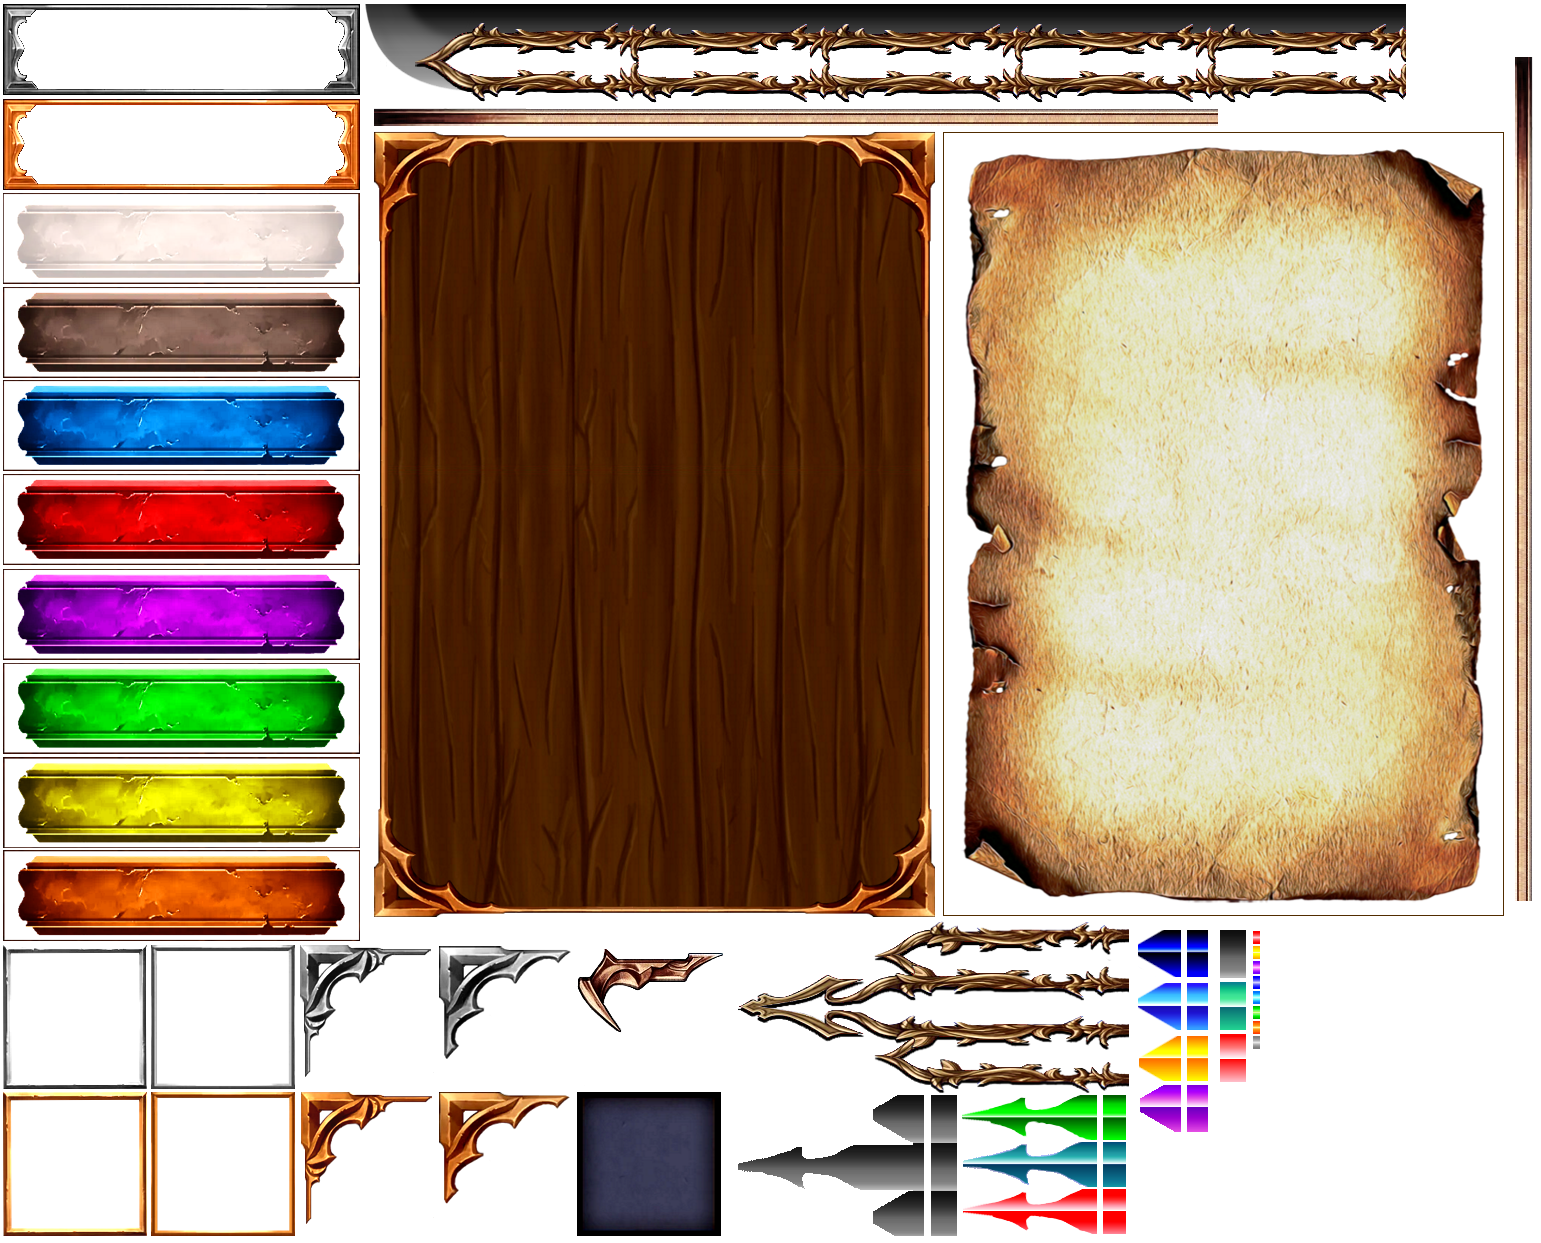
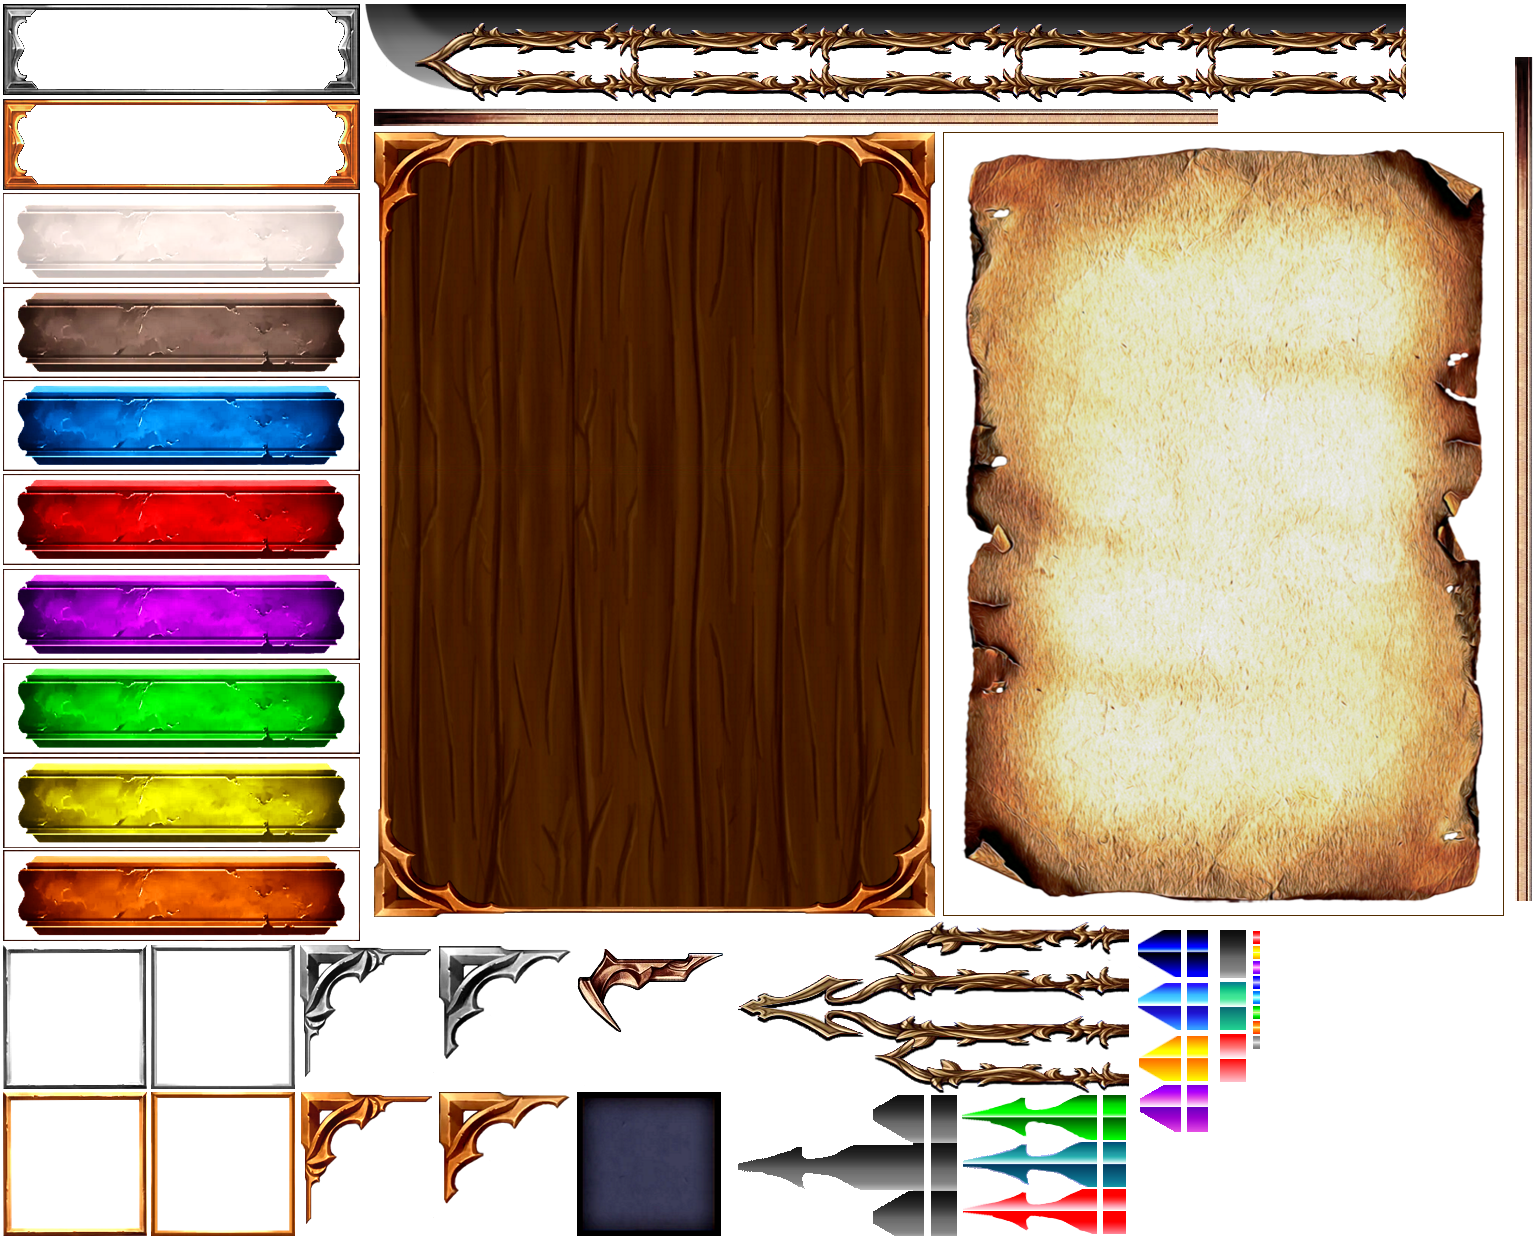
Retoutch style StatPlate

Changed region(s): [[0.0, 0.0, 0.9993, 1.0], [0.3748, 0.9814, 0.4684, 1.0], [0.0937, 0.7974, 0.1249, 0.8281]]

diff --git a/src/App.jsx b/src/App.jsx
@@ -1,33 +1,125 @@
 import "./App.css"
 import StatPlates from "./Components/_Various/StatPlates";
+import Plate from "./Components/_Various/Plate";
 
 import StyleVar from "./StyleVar";
 
 const App = () => {
+
+   const nameColor = {
+      // stat:  StyleVar.plate.violet,
+      stat:  StyleVar.plate.red,
+      score: StyleVar.plate.orange,
+      fame:  StyleVar.plate.violet,
+   }
+
+   const style = {
+      
+      // frameColor: StyleVar.frame.silver,
+      frameColor: StyleVar.frame.gold,
+      textColor:  StyleVar.text.white,
+      
+      name: {
+         trans:     "-38%, 71%",
+         scale:     "80%, 70%",
+         textScale: "110%, 110%",
+      },
+
+      value: {
+         color:     StyleVar.plate.grey,
+         trans:     "77%, -71%",
+         scale:     "55%, 70%",
+         textScale: "160%, 110%",
+      },
+   }
 
    return(<>
       <div className="Flex aze">
          <div className="Img pict woodPanel"/>
 
          <StatPlates
-            name  ="Health"
-            value ="3000"
-            nameColor  ={StyleVar.plate.red}
-            valueColor ={StyleVar.plate.grey}
+            name            ="Max Health"
+            namePlateColor  ={nameColor.stat}
+            namePlateTrans  ={style.name.trans}
+            namePlateScale  ={style.name.scale}
+            nameTextScale   ={style.name.textScale}
+
+            value           ={3000}
+            valuePlateColor ={style.value.color}
+            valuePlateTrans ={style.value.trans}
+            valuePlateScale ={style.value.scale}
+            valueTextScale  ={style.value.textScale}
+
+            frameColor ={style.frameColor}
+            textColor  ={style.textColor}
          />
 
          <StatPlates
-            name  ="Mana"
-            value ="2200"
-            nameColor  ={StyleVar.plate.red}
-            valueColor ={StyleVar.plate.grey}
+            name            ="Health Regen"
+            namePlateColor  ={nameColor.stat}
+            namePlateTrans  ={style.name.trans}
+            namePlateScale  ={style.name.scale}
+            nameTextScale   ={style.name.textScale}
+
+            value           ="50/s"
+            valuePlateColor ={style.value.color}
+            valuePlateTrans ={style.value.trans}
+            valuePlateScale ={style.value.scale}
+            valueTextScale  ={style.value.textScale}
+
+            frameColor ={style.frameColor}
+            textColor  ={style.textColor}
          />
 
          <StatPlates
-            name  ="Energy"
-            value ="3500"
-            nameColor  ={StyleVar.plate.red}
-            valueColor ={StyleVar.plate.grey}
+            name            ="Max Mana"
+            namePlateColor  ={nameColor.stat}
+            namePlateTrans  ={style.name.trans}
+            namePlateScale  ={style.name.scale}
+            nameTextScale   ={style.name.textScale}
+
+            value           ={2200}
+            valuePlateColor ={style.value.color}
+            valuePlateTrans ={style.value.trans}
+            valuePlateScale ={style.value.scale}
+            valueTextScale  ={style.value.textScale}
+
+            frameColor ={style.frameColor}
+            textColor  ={style.textColor}
+         />
+
+         <StatPlates
+            name            ="Mana Regen"
+            namePlateColor  ={nameColor.stat}
+            namePlateTrans  ={style.name.trans}
+            namePlateScale  ={style.name.scale}
+            nameTextScale   ={style.name.textScale}
+
+            value           ="70/s"
+            valuePlateColor ={style.value.color}
+            valuePlateTrans ={style.value.trans}
+            valuePlateScale ={style.value.scale}
+            valueTextScale  ={style.value.textScale}
+
+            frameColor ={style.frameColor}
+            textColor  ={style.textColor}
+         />
+
+         <StatPlates
+            name            ="Max Energy"
+            namePlateColor  ={nameColor.stat}
+            namePlateTrans  ={style.name.trans}
+            namePlateScale  ={style.name.scale}
+            nameTextScale   ={style.name.textScale}
+
+            value           ={3500}
+            valuePlateColor ={style.value.color}
+            valuePlateTrans ={style.value.trans}
+            valuePlateScale ={style.value.scale}
+            valueTextScale  ={style.value.textScale}
+
+            frameColor ={style.frameColor}
+            textColor  ={style.textColor}
          />
 
       </div>

diff --git a/src/Components/_Various/StatPlates/index.jsx b/src/Components/_Various/StatPlates/index.jsx
@@ -10,13 +10,12 @@ const Template = (props) => {
          {/* Name */}
          <Plate
             value       ={props.name}
-            plateWidth  ={"250px"}
-            frameScale  ={"70%, 60%"}
-            frameTopPos ={"-18px"}
-            frameColor  ={StyleVar.frame.silver}
-            plateColor  ={props.nameColor}
-            textSize    ={StyleVar.text.small}
-            textColor   ={StyleVar.text.white}
+            plateTrans  ={props.namePlateTrans}
+            plateScale  ={props.namePlateScale}
+            plateColor  ={props.namePlateColor}
+            textScale   ={props.nameTextScale}
+            textColor   ={props.textColor}
+            frameColor  ={props.frameColor}
             isClickable ={false}
          />
 
@@ -24,13 +23,12 @@ const Template = (props) => {
          {/* Value */}
          <Plate
             value       ={props.value}
-            plateWidth  ={"178px"}
-            frameScale  ={"50%, 60%"}
-            frameTopPos ={"-18px"}
-            frameColor  ={StyleVar.frame.silver}
-            plateColor  ={props.valueColor}
-            textSize    ={StyleVar.text.small}
-            textColor   ={StyleVar.text.white}
+            plateTrans  ={props.valuePlateTrans}
+            plateScale  ={props.valuePlateScale}
+            plateColor  ={props.valuePlateColor}
+            textScale   ={props.valueTextScale}
+            textColor   ={props.textColor}
+            frameColor  ={props.frameColor}
             isClickable ={false}
          />
       </div>

diff --git a/src/Components/_Various/Plate/index.jsx b/src/Components/_Various/Plate/index.jsx
@@ -1,29 +1,24 @@
 import "./style.css";
-import { useEffect, useRef } from "react";
 import PlateColor from "../PlateColor";
 
 const Template = (props) => {
 
-   const plateRef = useRef(null);
-   const frameRef = useRef(null);
-   const textRef  = useRef(null);
    const clickPlate = props.isClickable ? "clickPlate" : "";
+   const style = {
+      plate: {
+         transform: `scale(${props.plateScale}) translate(${props.plateTrans})`,
+      },
 
-   useEffect(() => {      
-      frameRef.current.style.transform = `scale(${props.frameScale})`;
-      plateRef.current.style.width     = `${props.plateWidth}`;
-      frameRef.current.style.top       = `${props.frameTopPos}`;
-      textRef.current.style.fontSize   = props.textSize;
-      textRef.current.style.color      = props.textColor;
-   }, []);
+      text: {
+         color: `${props.textColor}`,
+         transform: `scale(${props.textScale})`,
+      }
+   }
    
    return(<>
-      <div ref={plateRef} className={`Flex plate ${clickPlate}`}>
-         <div ref={frameRef} className={`Img frame ${props.frameColor}`}>
-            <PlateColor color={props.plateColor}/>
-         </div>
-
-         <p ref={textRef} className="Flex">{props.value}</p>
+      <div style={style.plate} className={`Flex Img plate ${props.frameColor} ${clickPlate}`}>
+         <PlateColor color={props.plateColor}/>
+         <p style={style.text} className="Flex">{props.value}</p>
       </div>
    </>);
 }

diff --git a/src/StyleVar.js b/src/StyleVar.js
@@ -11,17 +11,13 @@ const styleVar = {
       grey:   "greyPlate",
       blue:   "bluePlate",
       red:    "redPlate",
-      purple: "purplePlate",
+      violet: "violetPlate",
       green:  "greenPlate",
       yellow: "yellowPlate",
       orange: "orangePlate",
    },
    
    text: {
-      small:  "200%",
-      medium: "250%",
-      big:    "300%",
-
       white:  "white",
       green:  "lime",
       yellow: "gold",

diff --git a/src/Components/_Various/PlateColor/style.css b/src/Components/_Various/PlateColor/style.css
@@ -14,7 +14,7 @@
 .greyPlate   { background-position: -6px -290px; }
 .bluePlate   { background-position: -6px -383px; }
 .redPlate    { background-position: -6px -477px; }
-.purplePlate { background-position: -6px -572px; }
+.violetPlate { background-position: -6px -572px; }
 .greenPlate  { background-position: -6px -666px; }
 .yellowPlate { background-position: -6px -760px; }
 .orangePlate { background-position: -6px -853px; }

diff --git a/src/Components/_Various/Plate/style.css b/src/Components/_Various/Plate/style.css
@@ -1,12 +1,6 @@
 
 .plate {
    position: relative;
-   height: 100%;
-   background-color: blue;
-}
-
-.frame {
-   position: absolute;
    height: 90px;
    width: 356px;
    background-color: black;
@@ -14,9 +8,7 @@
 
 .plate p {
    user-select: none;
-   position: absolute;
-   top: 50%;
-   transform: translate(0%, -50%);
+   width: auto;
 }
 
 .plate:hover .whitePlate {

diff --git a/src/App.css b/src/App.css
@@ -46,7 +46,7 @@ button {
 
 p {
    text-align: center;
-   font-size: 150%;
+   font-size: 50px;
 }
 
 
@@ -99,8 +99,10 @@ p {
    top: 100px;
    left: 100px;
    width: 490px;
-	height: 786px;
+	height: auto;
    align-content: flex-start;
+
+   transform: scale(64%, 63%);
 }
 
 .pict {

diff --git a/src/Components/_Various/StatPlates/style.css b/src/Components/_Various/StatPlates/style.css
@@ -1,7 +1,5 @@
 
 .statPlates {
-   margin-bottom: 5px;
-   height: 54px;
+   height: 70px;
    width: 100%;
-   justify-content: space-between;
 }
